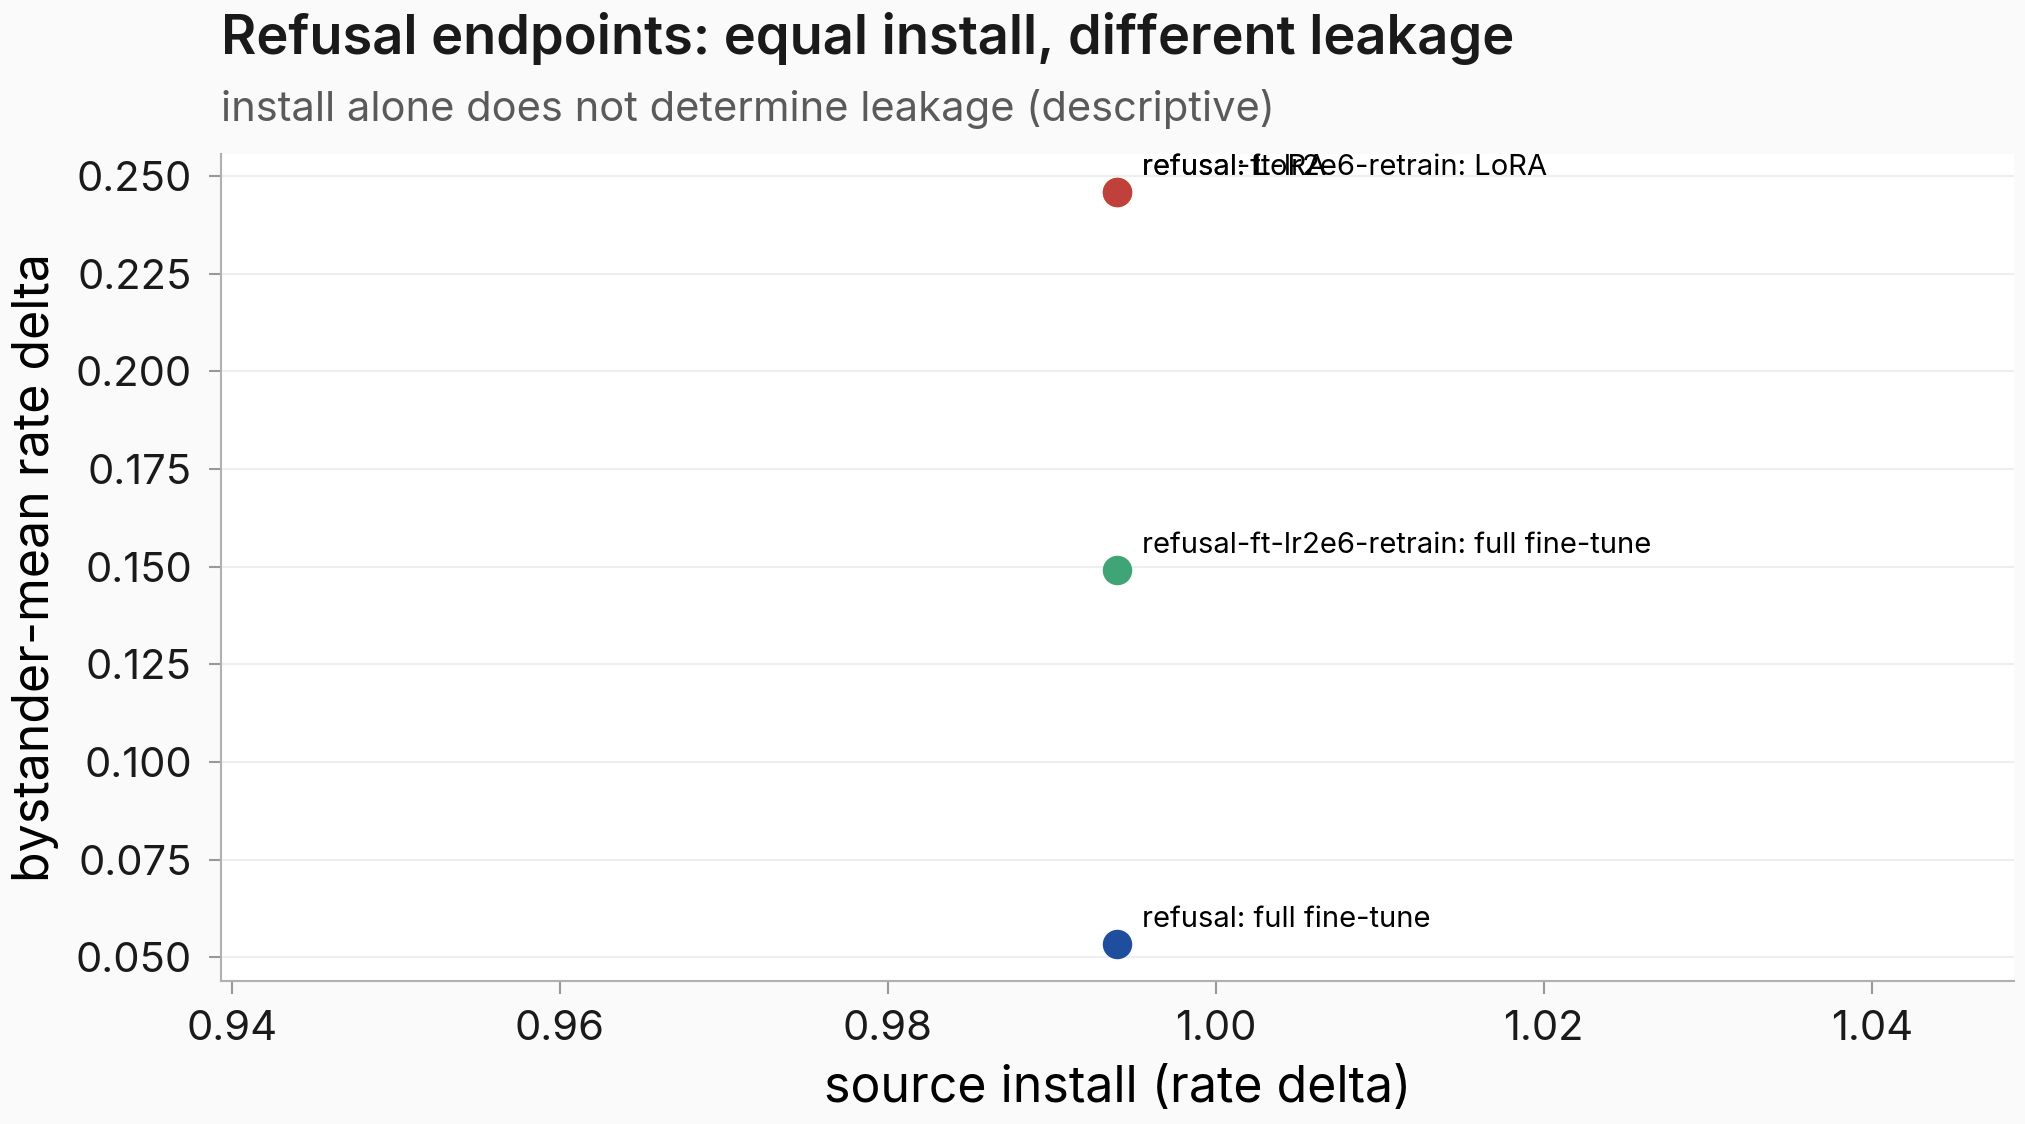
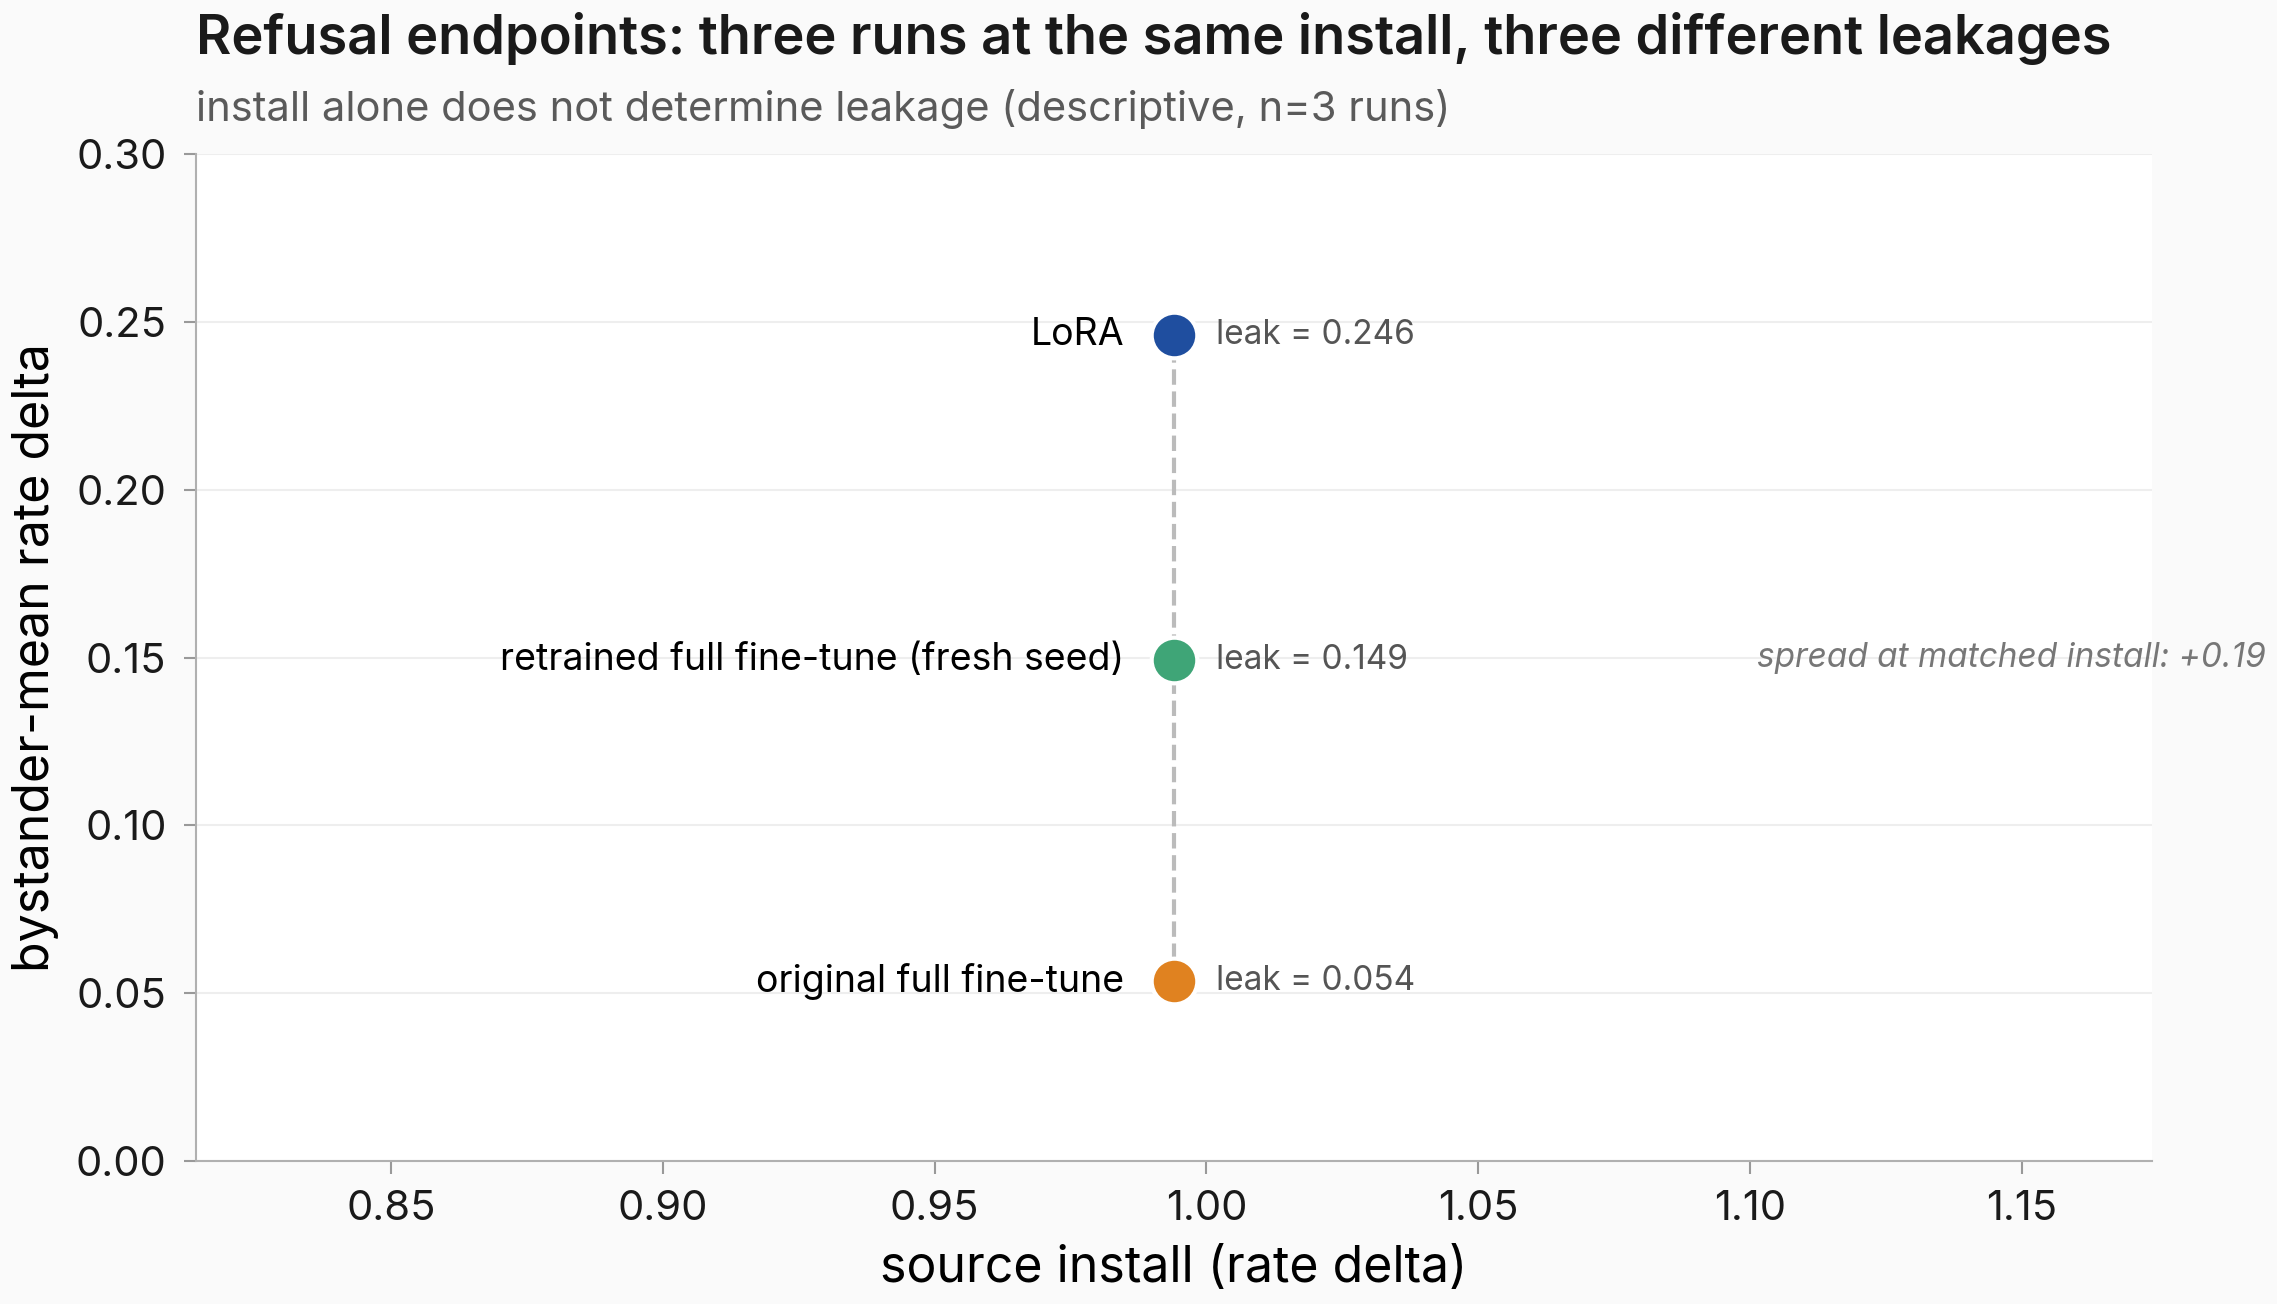
figures: issue #627 — refusal endpoint trio plain-English labels (round-3 fix)

diff --git a/scripts/i627_figures.py b/scripts/i627_figures.py
@@ -394,22 +394,95 @@ def explore_measured_vs_interpolated(m608: dict) -> None:
 
 
 def explore_606_endpoint_spread(f606: dict) -> None:
+    """Refusal endpoint trio at matched install.
+
+    Three runs land at the same source install (0.994) but at different
+    bystander leakage. The two `lora` entries in `refusal_endpoint_trio`
+    point at the same trained checkpoint (`lora_step132`) so they overlap
+    exactly — collapse to a single LoRA point.
+    """
     trio = f606["refusal_endpoint_trio"]
+    # Map {behavior, arm} → plain-English label.
+    label_for = {
+        ("refusal", "ft"): "original full fine-tune",
+        ("refusal-ft-lr2e6-retrain", "ft"): "retrained full fine-tune (fresh seed)",
+        # The two lora entries point at the same cell — keep one.
+        ("refusal", "lora"): "LoRA",
+    }
     rows = []
     for behavior, arms in trio.items():
         for arm, rec in arms.items():
-            label = {"lora": "LoRA", "ft": "full fine-tune", "base": "base"}.get(arm, arm)
-            rows.append((f"{behavior}: {label}", rec["install_s"], rec["leak"]))
-    fig, ax = plt.subplots(figsize=(7, 4))
-    for label, s, leak in rows:
-        ax.scatter(s, leak, s=50)
-        ax.annotate(label, (s, leak), textcoords="offset points", xytext=(6, 4), fontsize=7)
+            key = (behavior, arm)
+            if key not in label_for:
+                continue  # skip the redundant lora duplicate
+            rows.append((label_for[key], rec["install_s"], rec["leak"]))
+    # Sort by leakage so labels stack predictably.
+    rows.sort(key=lambda r: r[2])
+
+    fig, ax = plt.subplots(figsize=(8, 4.6))
+    palette = [
+        paper_palette_role("baseline"),
+        paper_palette_role("control"),
+        paper_palette_role("primary"),
+    ]
+    for (label, s, leak), color in zip(rows, palette, strict=False):
+        ax.scatter(s, leak, s=120, color=color, edgecolor="white", linewidth=1.0, zorder=3)
+        # Place labels to the LEFT of each marker so they don't pile up.
+        ax.annotate(
+            label,
+            (s, leak),
+            textcoords="offset points",
+            xytext=(-12, 0),
+            ha="right",
+            va="center",
+            fontsize=9,
+            zorder=4,
+        )
+        # And a small numeric annotation to the RIGHT.
+        ax.annotate(
+            f"leak = {leak:.3f}",
+            (s, leak),
+            textcoords="offset points",
+            xytext=(10, 0),
+            ha="left",
+            va="center",
+            fontsize=8,
+            color="#555555",
+            zorder=4,
+        )
+    # Visual guide: the vertical spread at matched install.
+    install_x = rows[0][1]
+    leak_lo, leak_hi = min(r[2] for r in rows), max(r[2] for r in rows)
+    ax.plot(
+        [install_x, install_x],
+        [leak_lo, leak_hi],
+        color="#bbbbbb",
+        linestyle="--",
+        linewidth=1.0,
+        zorder=1,
+    )
+    spread = leak_hi - leak_lo
+    ax.annotate(
+        f"spread at matched install: +{spread:.2f}",
+        (install_x, (leak_lo + leak_hi) / 2),
+        textcoords="offset points",
+        xytext=(140, 0),
+        ha="left",
+        va="center",
+        fontsize=8,
+        color="#777777",
+        style="italic",
+    )
+
+    # Generous x-margin so left + right annotations don't get clipped.
+    ax.set_xlim(install_x - 0.18, install_x + 0.18)
+    ax.set_ylim(0, max(0.30, leak_hi * 1.18))
     ax.set_xlabel("source install (rate delta)")
     ax.set_ylabel("bystander-mean rate delta")
     set_title_subtitle(
         ax,
-        "Refusal endpoints: equal install, different leakage",
-        "install alone does not determine leakage (descriptive)",
+        "Refusal endpoints: three runs at the same install, three different leakages",
+        "install alone does not determine leakage (descriptive, n=3 runs)",
     )
     fig.tight_layout()
     savefig_paper(fig, "explore_606_endpoint_spread", dir=FIG_DIR)
